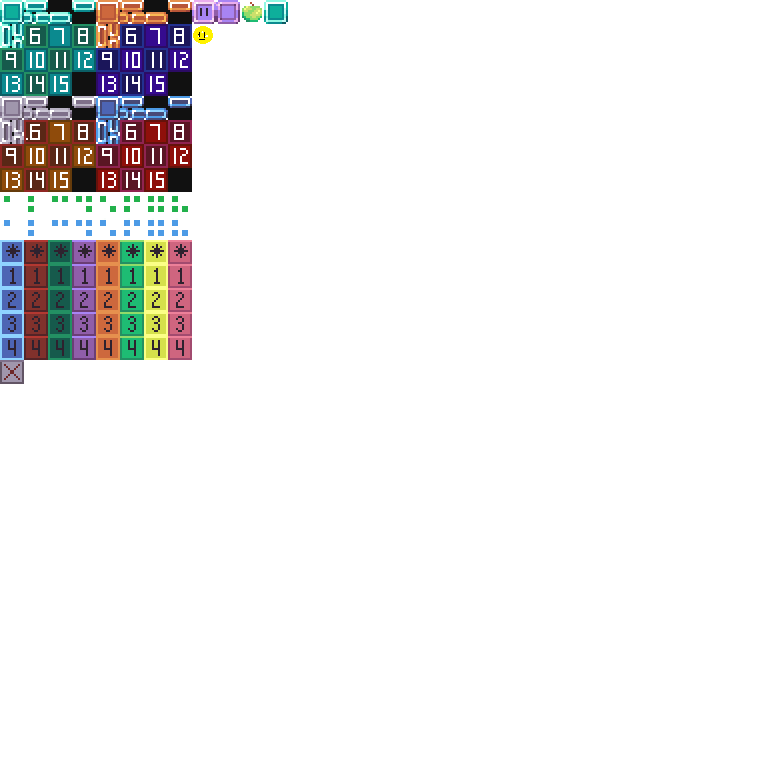
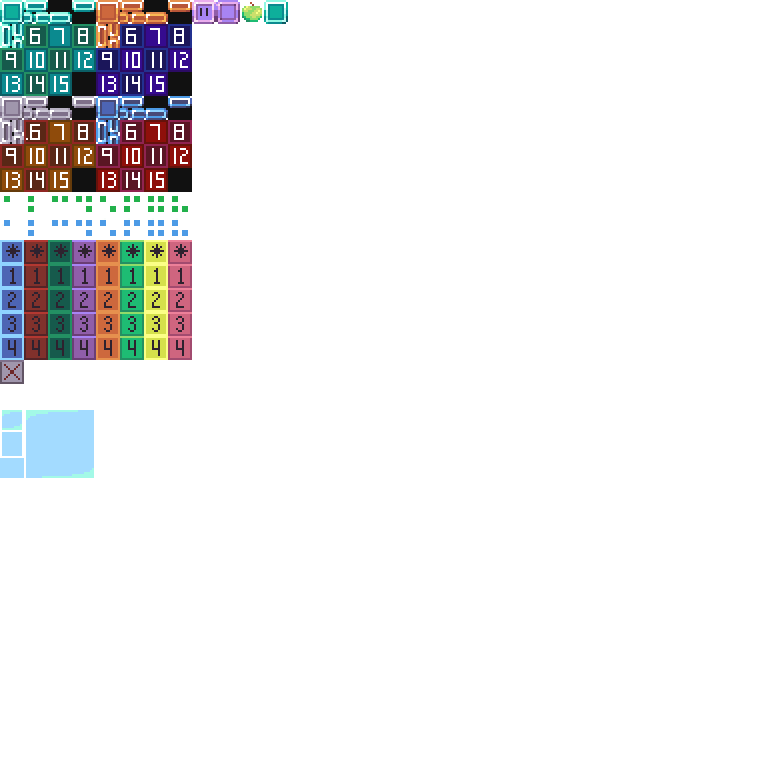
First Pass
- simple working model
- uses a const bool similar to DARK_MODE

Changed region(s): [[0.0, 0.5312, 0.125, 0.625], [0.25, 0.0312, 0.2812, 0.0625]]

diff --git a/games/Phaser-Snake-Game/public/js/SnakeHole.js b/games/Phaser-Snake-Game/public/js/SnakeHole.js
@@ -14,9 +14,10 @@ import {PORTAL_COLORS} from './const.js';
 const GAME_VERSION = 'v0.5.05.03.001';
 export const GRID = 24;        //.................... Size of Sprites and GRID
 //var FRUIT = 5;                 //.................... Number of fruit to spawn
-export const LENGTH_GOAL = 28; //28..................... Win Condition
+export const LENGTH_GOAL = 2; //28..................... Win Condition
 const  STARTING_ATTEMPTS = 25;
 const DARK_MODE = false;
+const GHOST_WALLS = true;
 // #region DEBUG OPTIONS
 
 export const DEBUG = false;
@@ -257,7 +258,7 @@ const STAGES_NEXT = {
     'testing-05': ['Stage-03a']
 }
 // #region START STAGE
-const START_STAGE = 'Stage-02a';
+const START_STAGE = 'Stage-03a';
 var END_STAGE = 'Stage-3a'; // Is var because it is set during debugging UI
 
 
@@ -659,6 +660,12 @@ class GameScene extends Phaser.Scene {
 
         this.wallLayer = this.map.createLayer('Wall', [this.tileset]).setPipeline('Light2D');
         this.wallLayer.setDepth(25);
+
+        if (GHOST_WALLS === true) {
+            this.ghostWallLayer = this.map.createLayer('Ghost-Wall', [this.tileset]).setTint(0xff00ff).setPipeline('Light2D');
+            this.ghostWallLayer.setDepth(26);
+        }
+        
 
         // Add ghost wall layer here. @holden
         
@@ -1363,7 +1370,11 @@ class GameScene extends Phaser.Scene {
             this.wallLayer.mask = new Phaser.Display.Masks.BitmapMask(this, this.lightMasksContainer);
             this.snake.body[0].mask = new Phaser.Display.Masks.BitmapMask(this, this.lightMasksContainer);
         }
+        if (GHOST_WALLS) {
+            this.ghostWallLayer.mask = new Phaser.Display.Masks.BitmapMask(this, this.lightMasksContainer);
 
+        }
+        
         // #endregion
         
     }

diff --git a/games/Phaser-Snake-Game/public/js/classes/Snake.js b/games/Phaser-Snake-Game/public/js/classes/Snake.js
@@ -137,8 +137,16 @@ var Snake = new Phaser.Class({
             }
         }
 
-        scene.map.setLayer("Ghost-1"); {
-            // Check Ghost Wall Collision
+        if (scene.GHOST_WALLS = true) {
+            scene.map.setLayer("Ghost-Wall");
+        }
+        if (scene.map.getTileAtWorldXY( xN, yN )) {
+        
+            this.direction = STOP;
+            if (scene.bonkable) {
+                this.bonk(scene);
+                
+            }
         }
 
         
